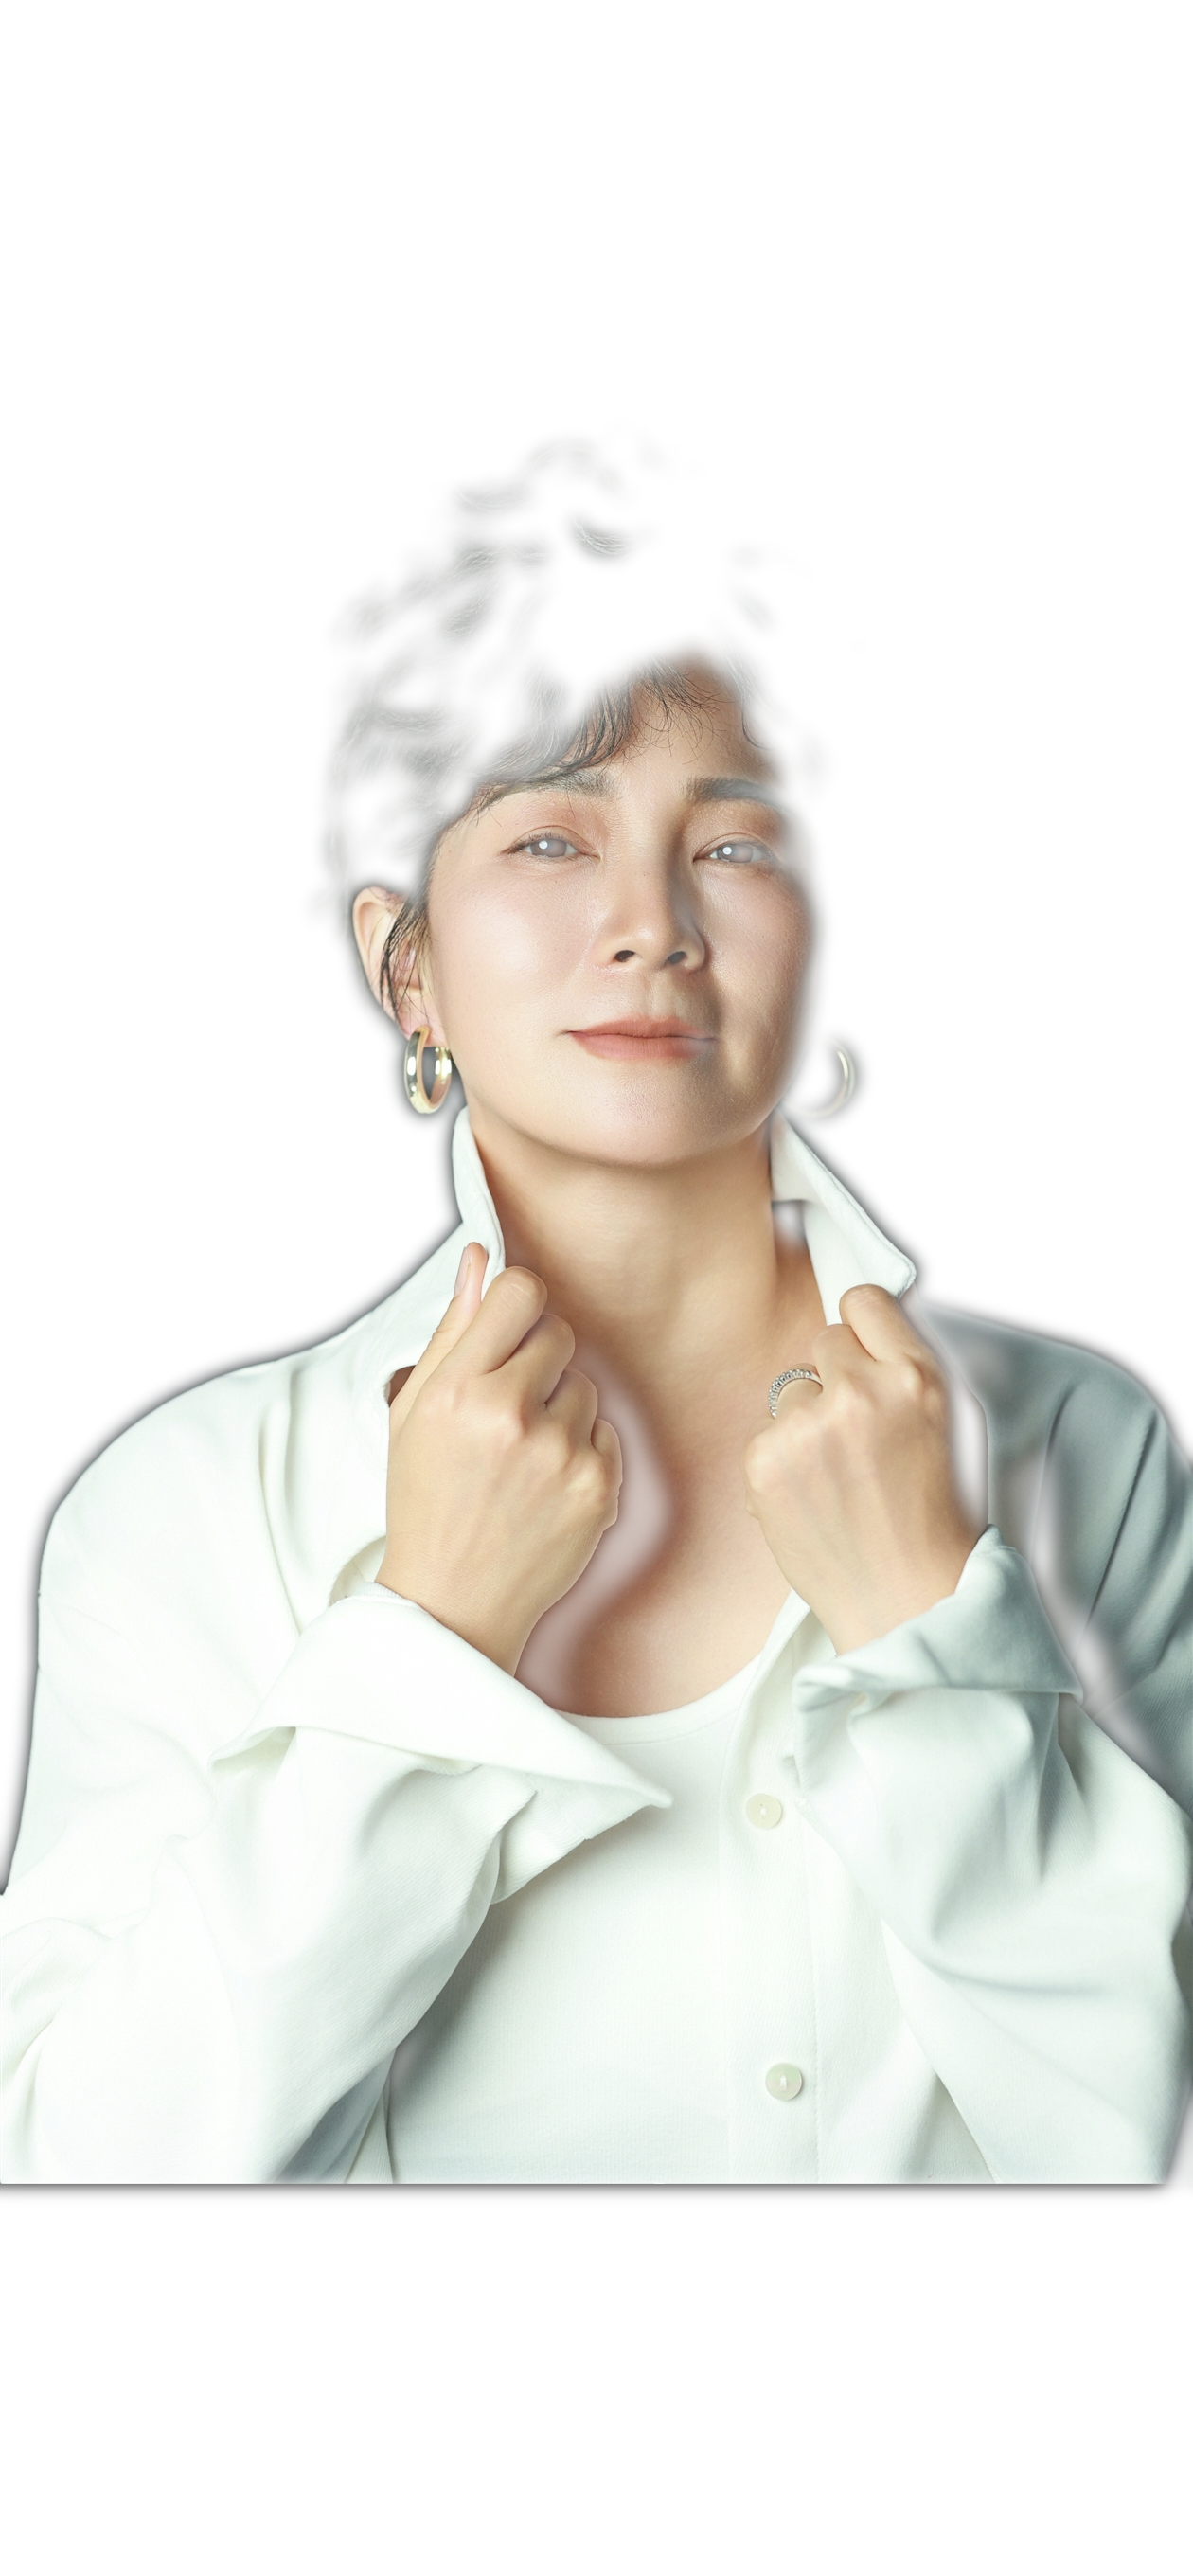
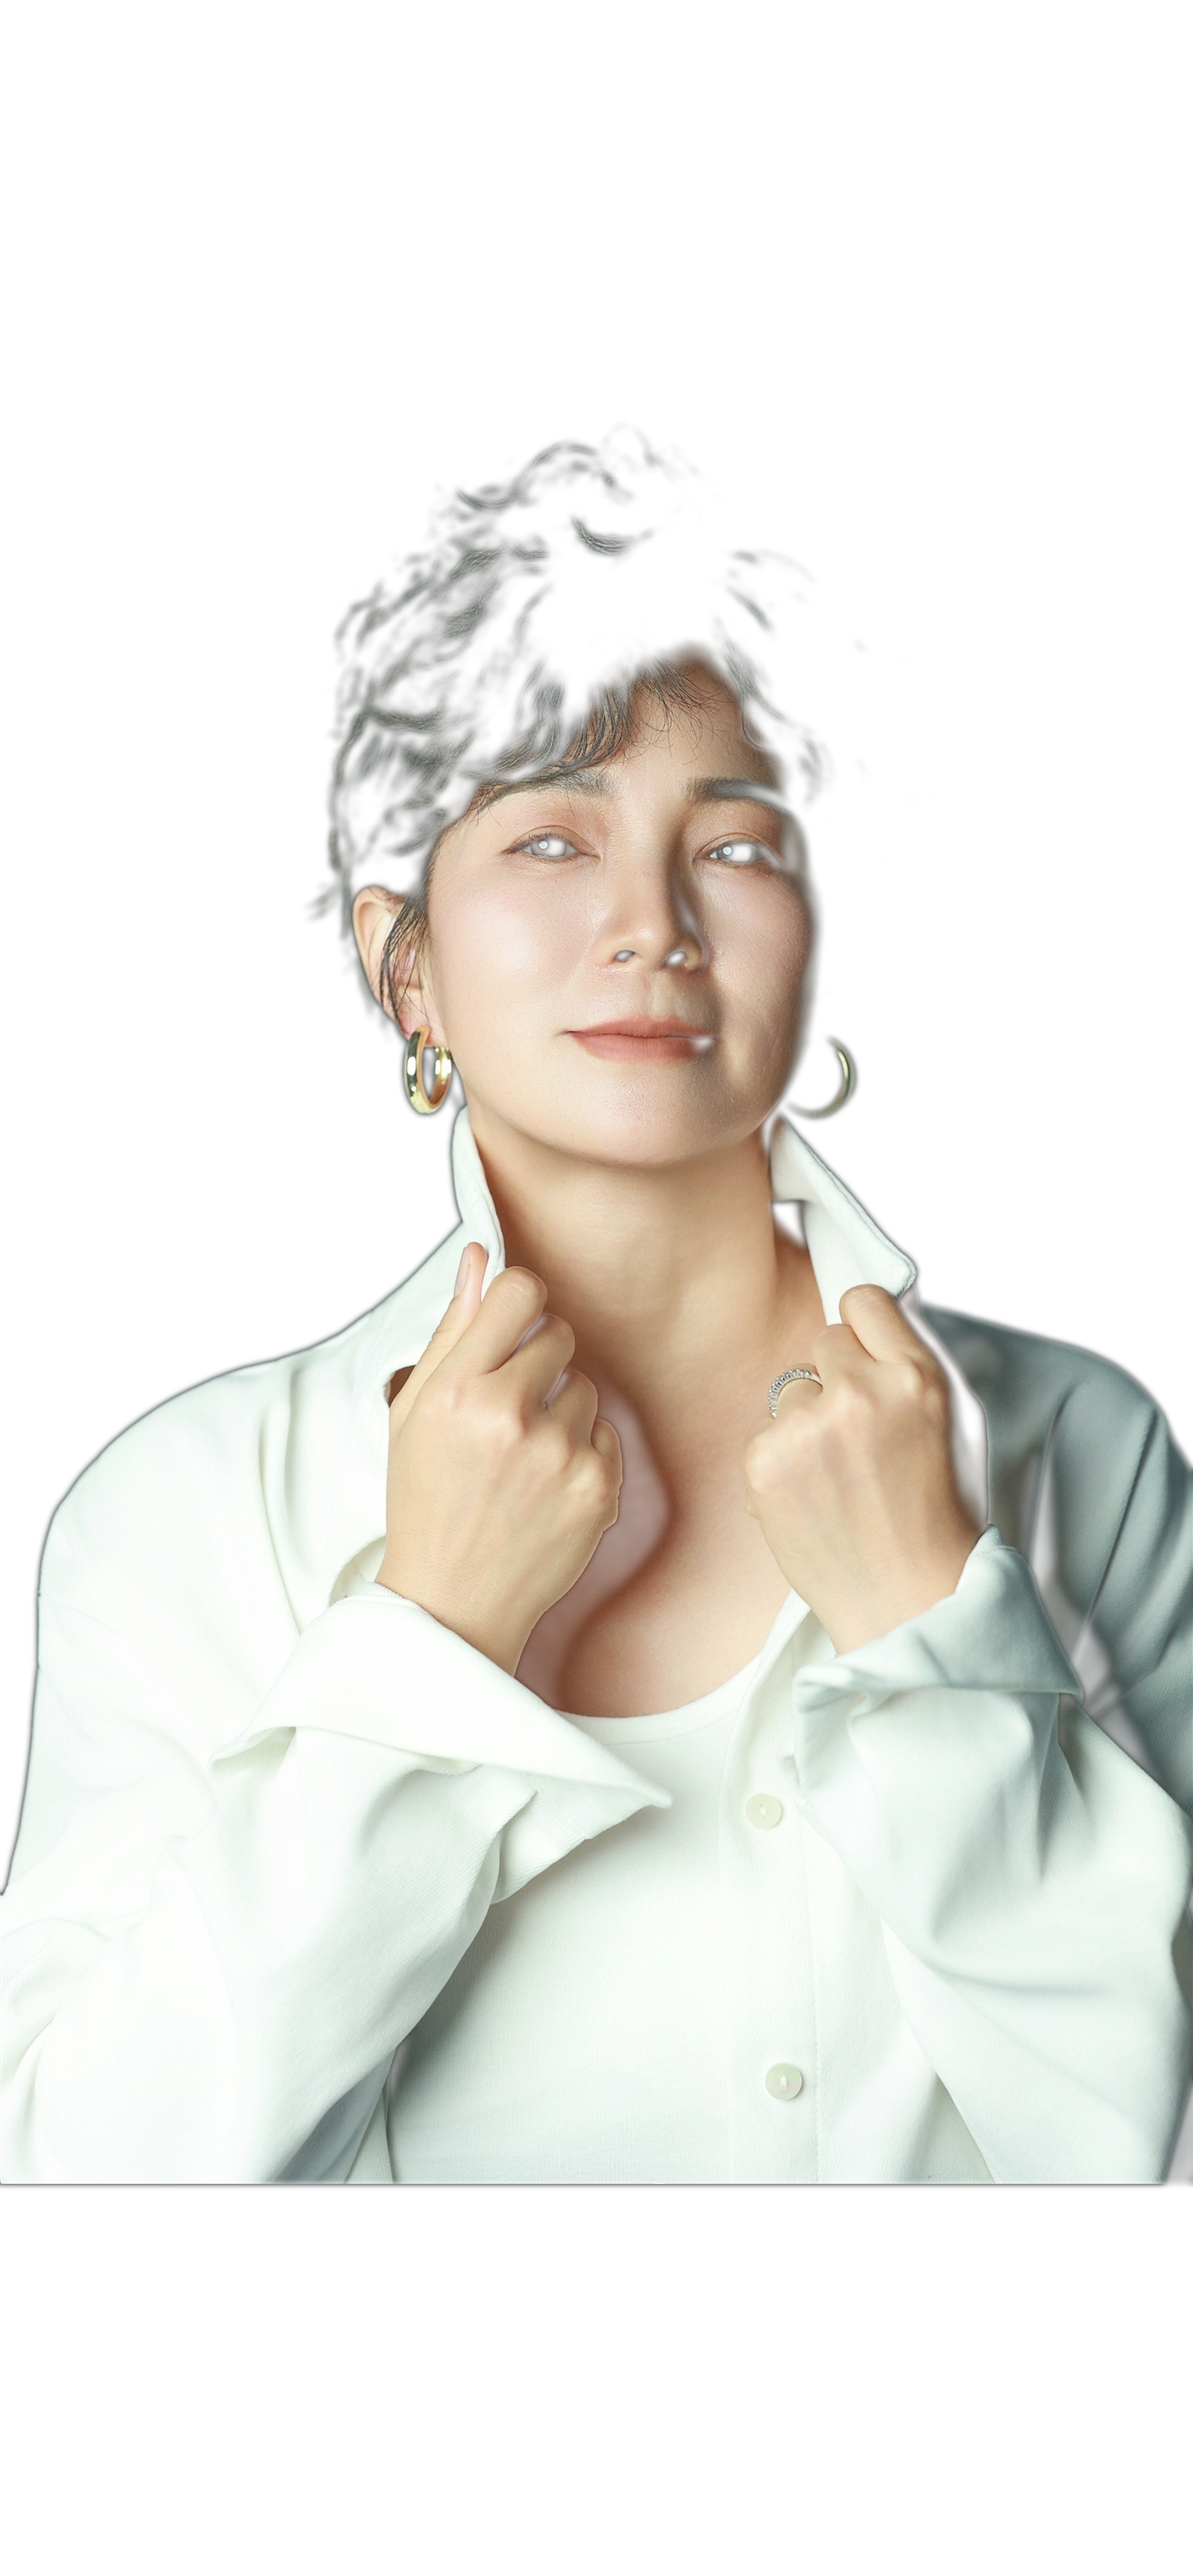
人像抠图：去黑底保留透明背景，自然融入深色页面

diff --git a/index.html b/index.html
@@ -271,18 +271,13 @@
             position: relative;
             width: 100%;
             max-width: 420px;
-            border-radius: 24px;
-            overflow: hidden;
         }
 
-        /* 裁切照片：只显示白衬衫及以上部分，下方裁掉 */
+        /* 抠图后的人像 - 透明背景 PNG */
         .hero-image {
             width: 100%;
             height: auto;
             display: block;
-            border-radius: 24px;
-            /* 向上偏移让底部多余部分被裁掉，值可按实际调整 */
-            margin-bottom: -35%;
             transition: transform 0.4s ease;
         }
 
@@ -710,7 +705,7 @@
             <div class="hero-right">
                 <div class="hero-glow-ring"></div>
                 <div class="hero-image-wrapper">
-                    <img src="images/coco个人网站图片.jpg" alt="COCO" class="hero-image">
+                    <img src="images/coco-hero.png" alt="COCO" class="hero-image">
                 </div>
             </div>
         </div>